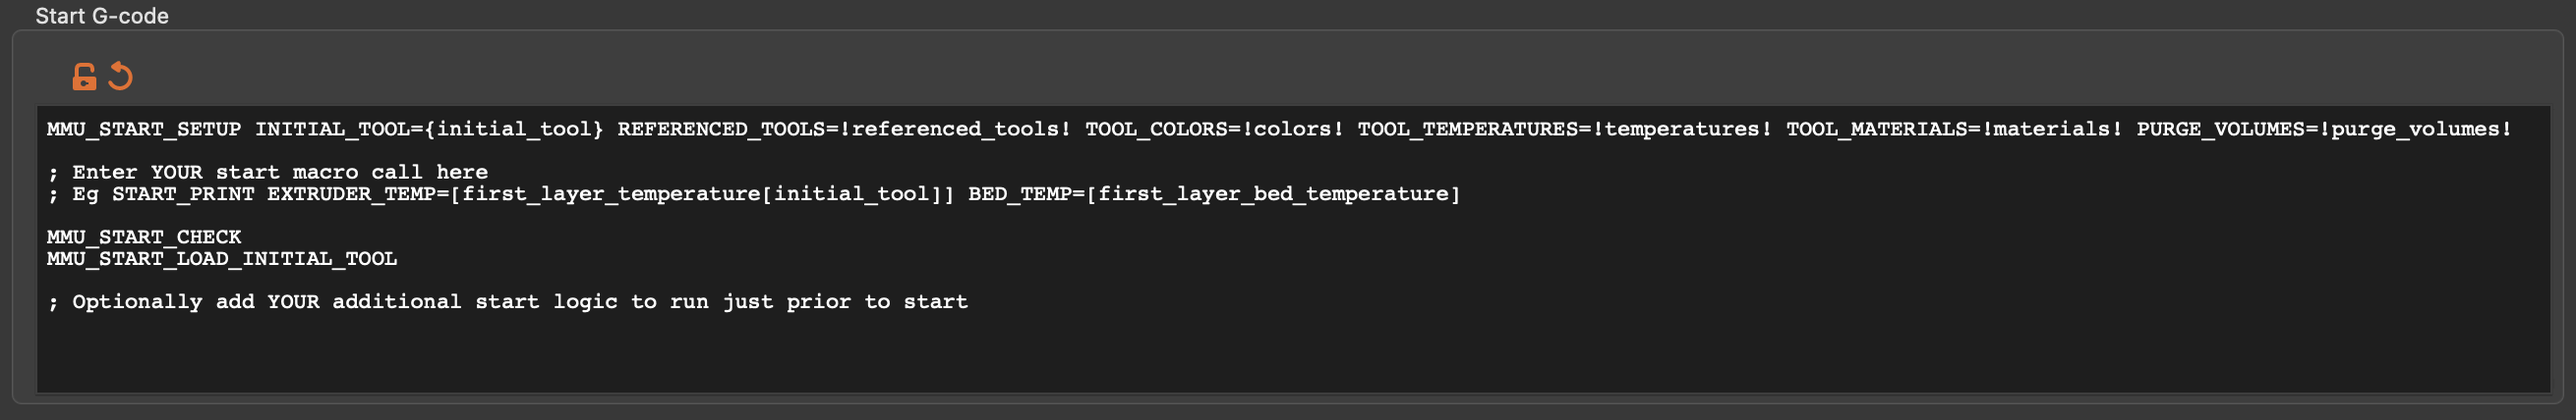
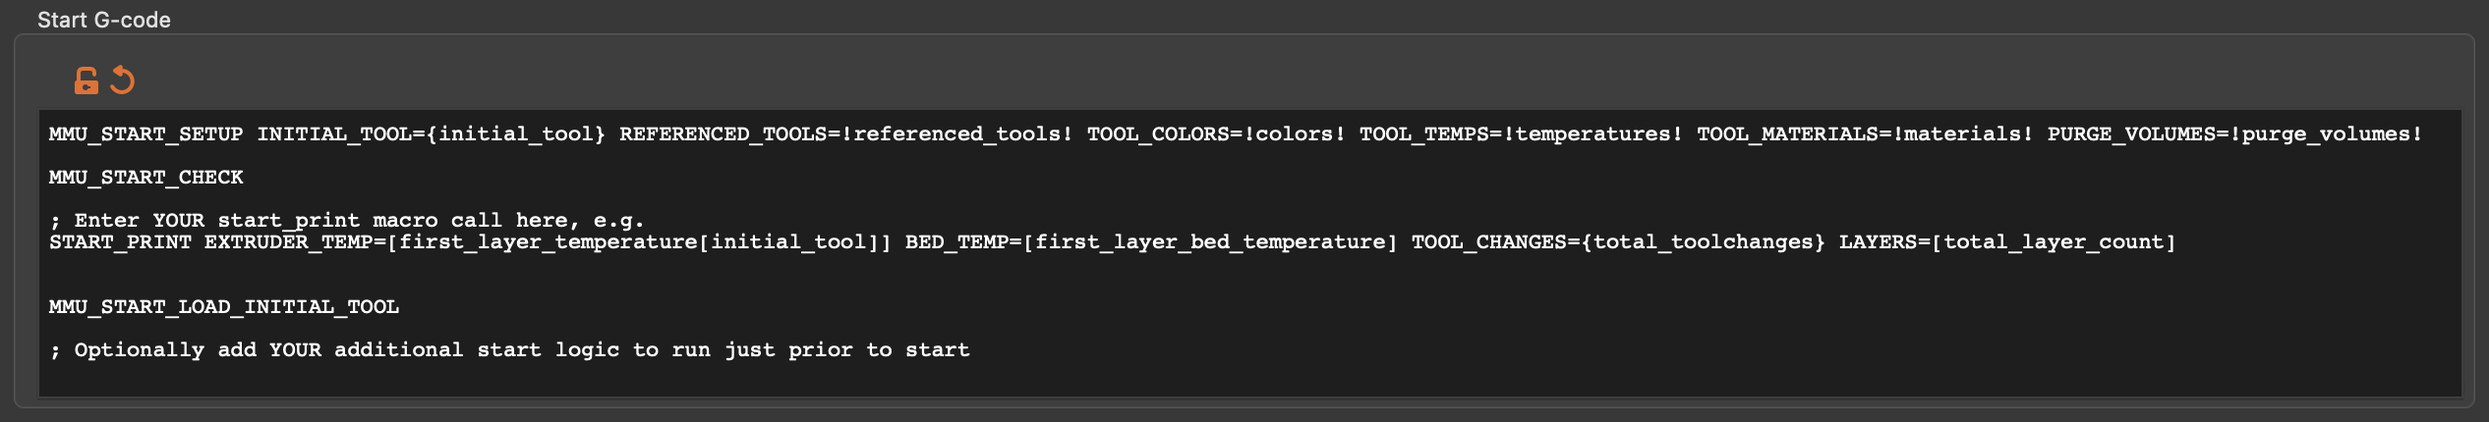
Fixed slicer custom gcode illustration

diff --git a/doc/slicer_setup.md b/doc/slicer_setup.md
@@ -13,7 +13,7 @@ Make sure the `Expert Options` of your slicer are enabled and go to the Printer 
 
 ## ![#f03c15](/doc/f03c15.png) ![#c5f015](/doc/c5f015.png) ![#1589F0](/doc/1589F0.png) Start G-Code
 
-Enter the following into your "custom start g-code" box:
+Enter the following (using your own print start macro call) into your "custom start g-code" box:
 
 <img src="/doc/slicer/start_gcode.png" width="100%" alt="Custom Start G-Code"><br>Your `START_PRINT ...` macro is likely to be different from mine! Here is some cut'n'paste text:
 
